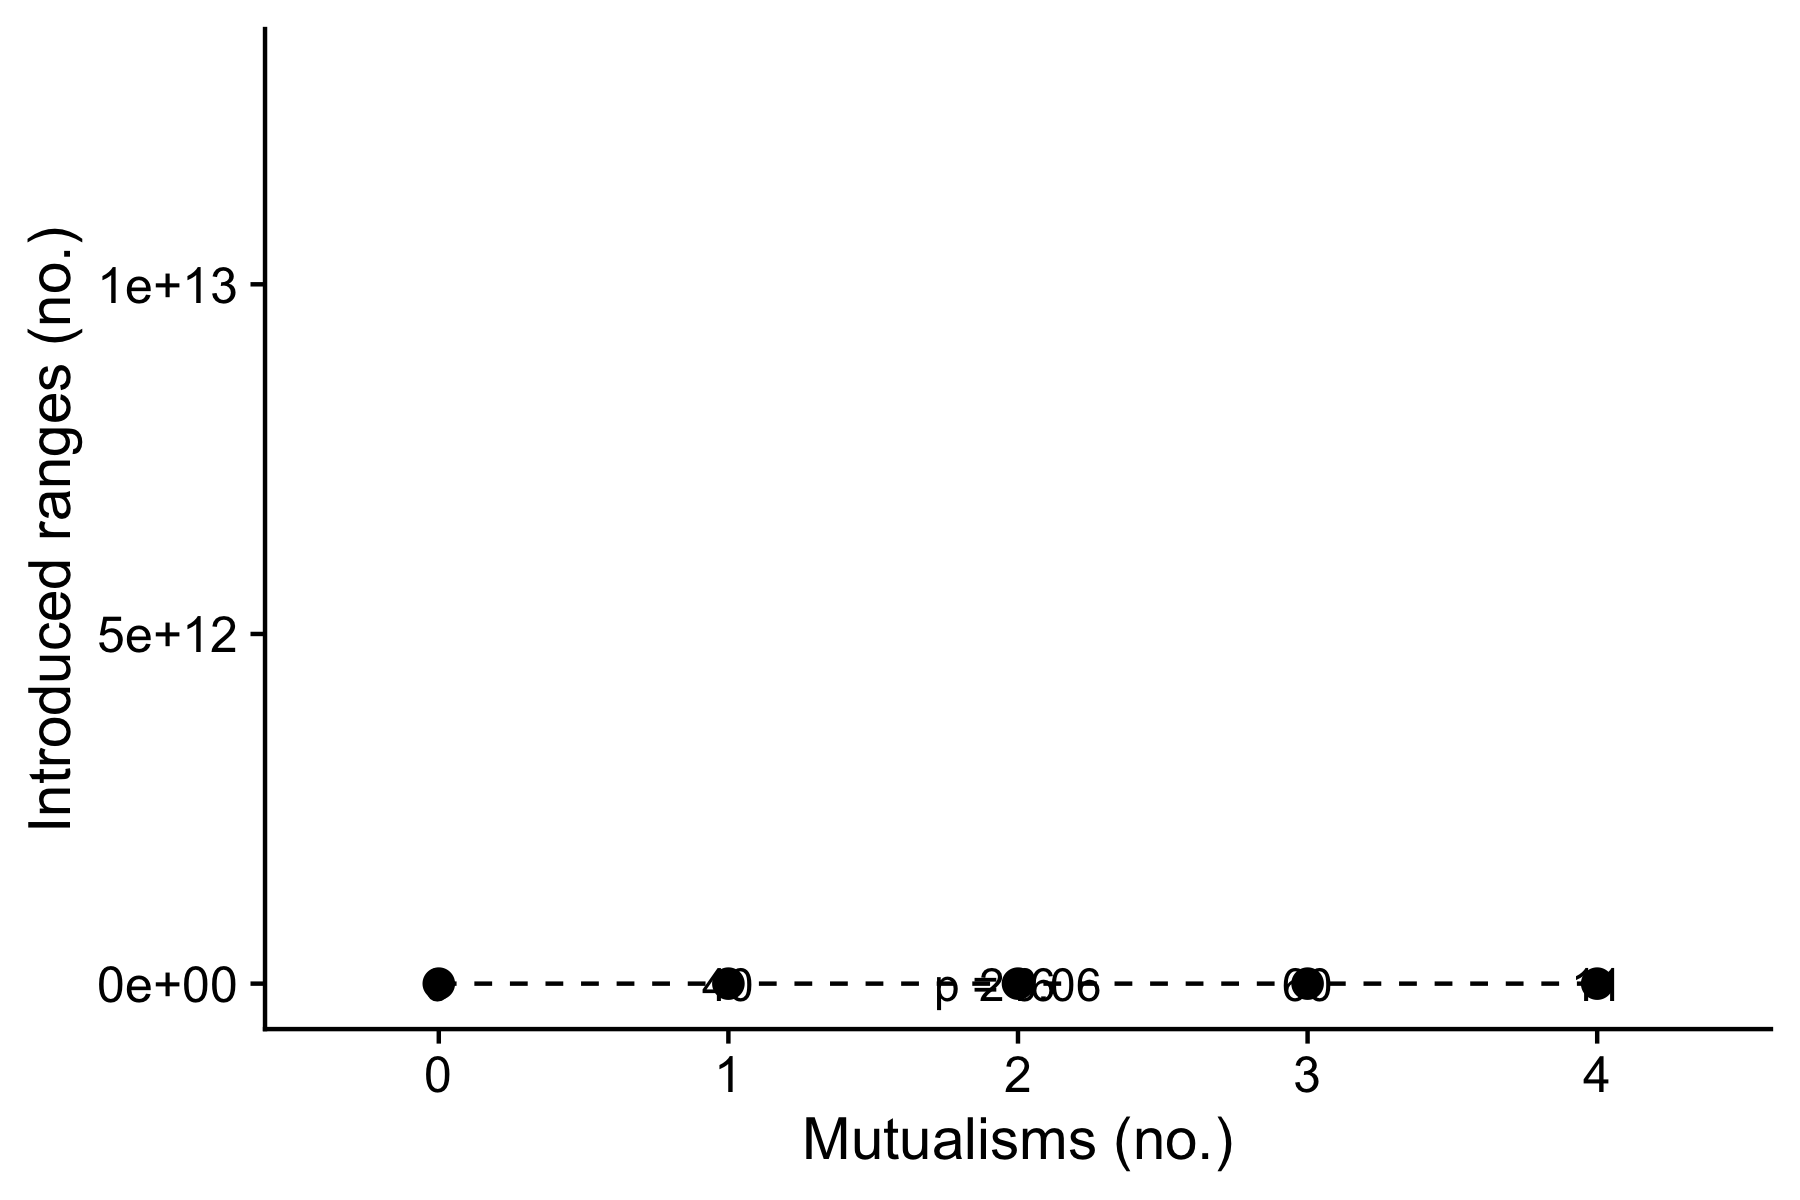
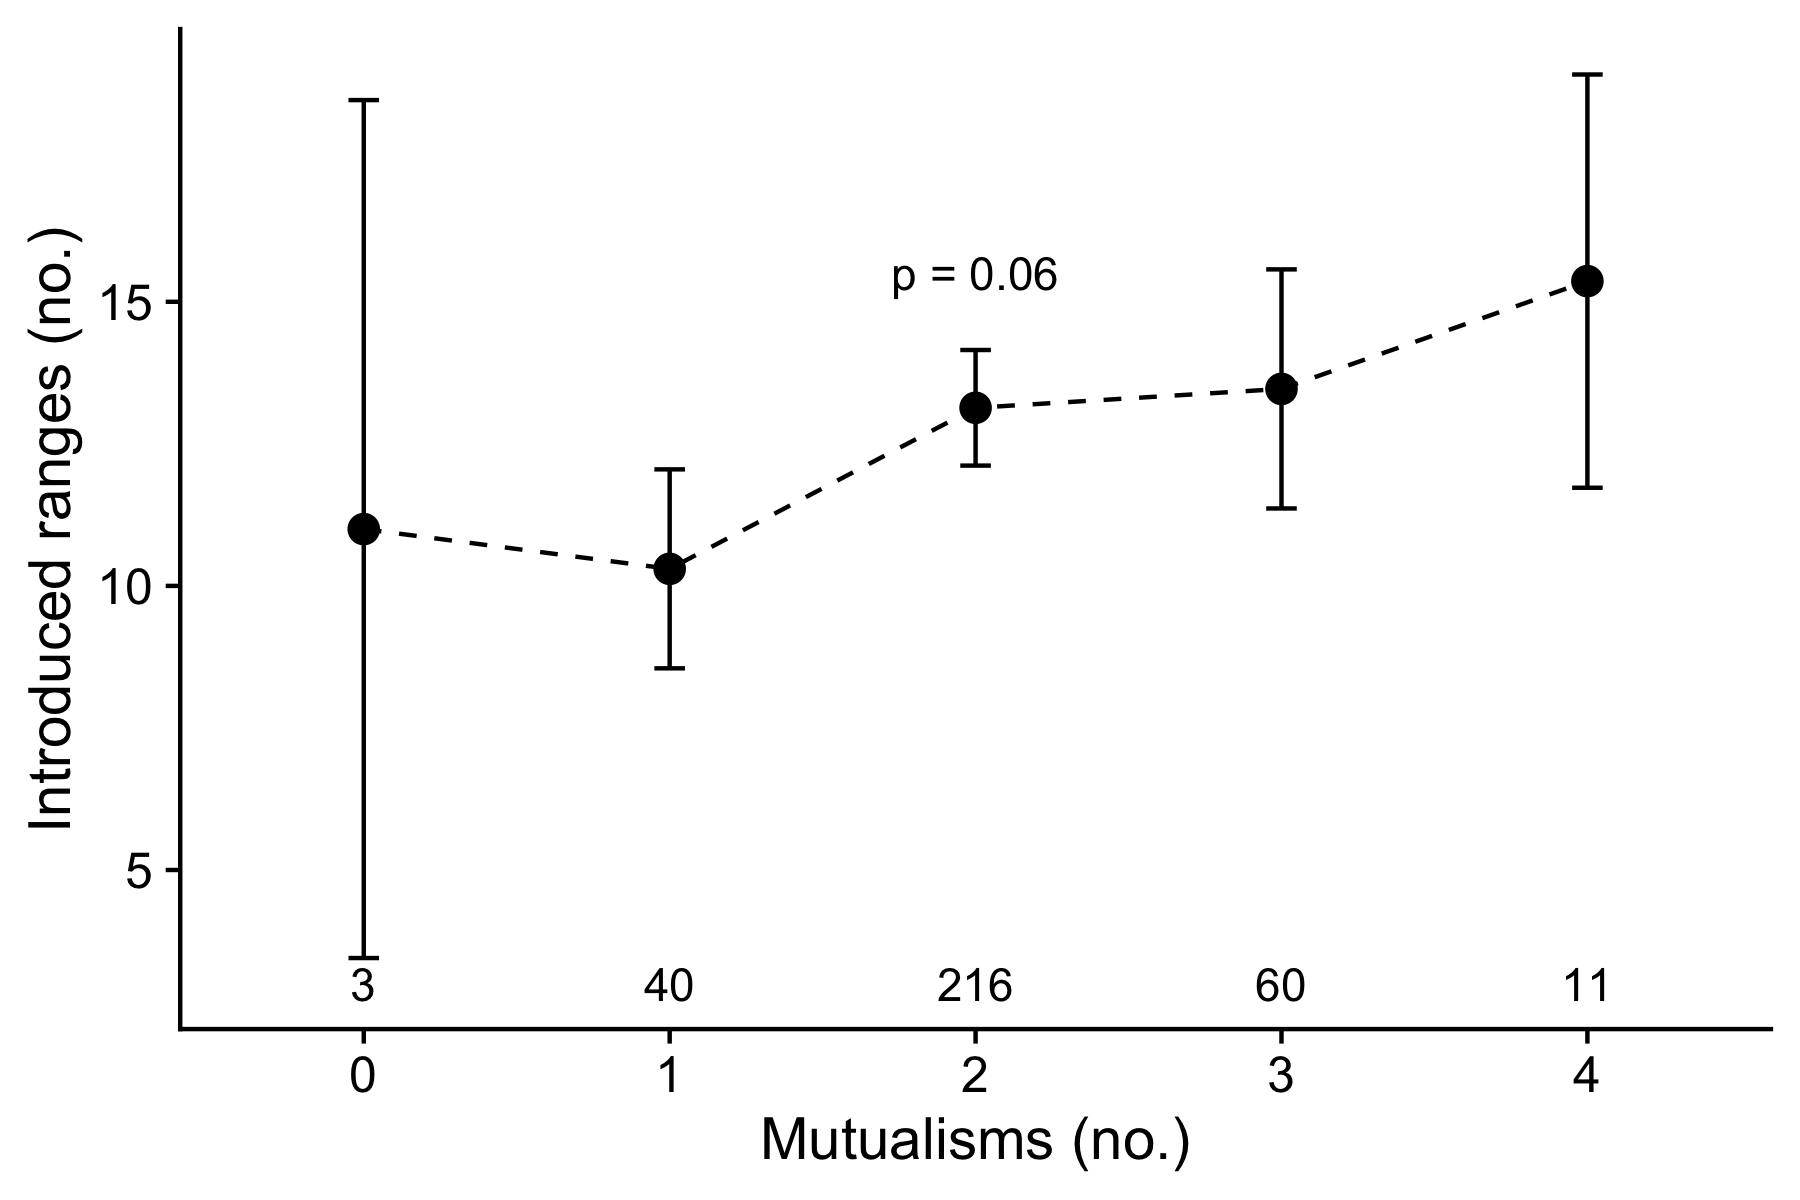
Update markdown document

diff --git a/README.md b/README.md
@@ -1605,7 +1605,7 @@ inset_p_mnum <- ggplot(data=subset(summary.mnum2.wide, !is.na(num_mutualisms)), 
 summary.mnum <- subset(df, !is.na(num_mutualisms) & introducedY == 1) %>% group_by(num_mutualisms) %>% summarize(n=n(), mean_num_introduced = mean(num_introduced, na.rm=TRUE), sd_num_introduced = sd(num_introduced, na.rm=TRUE), se_num_introduced = sd_num_introduced/sqrt(n))
 summary.mnum$num_mutualisms <- as.factor(summary.mnum$num_mutualisms)
 
-p_num_mutualisms <- ggplot(data=summary.mnum, aes(x=num_mutualisms, y=mean_num_introduced))+geom_point(size=pt_size)+geom_errorbar(aes(x=num_mutualisms, ymin=mean_num_introduced-se_num_introduced, ymax=mean_num_introduced+se_num_introduced), width=er_width)+theme_cowplot()+ylab("Introduced ranges (no.)")+geom_line(aes(group=1),linetype="dashed")+xlab("Mutualisms (no.)")+scale_y_continuous(limits=y_limits)+geom_text(aes(x=num_mutualisms, y= y_text, label=n))+annotate("text", x=3, y=15.5, label="p = 0.06")
+p_num_mutualisms <- ggplot(data=summary.mnum, aes(x=num_mutualisms, y=mean_num_introduced))+geom_point(size=pt_size)+geom_errorbar(aes(x=num_mutualisms, ymin=mean_num_introduced-se_num_introduced, ymax=mean_num_introduced+se_num_introduced), width=er_width)+theme_cowplot()+ylab("Introduced ranges (no.)")+geom_line(aes(group=1),linetype="dashed")+xlab("Mutualisms (no.)")+geom_text(aes(x=num_mutualisms, y= 3, label=n))+annotate("text", x=3, y=15.5, label="p = 0.06")
 p_num_mutualisms
 ```
 
